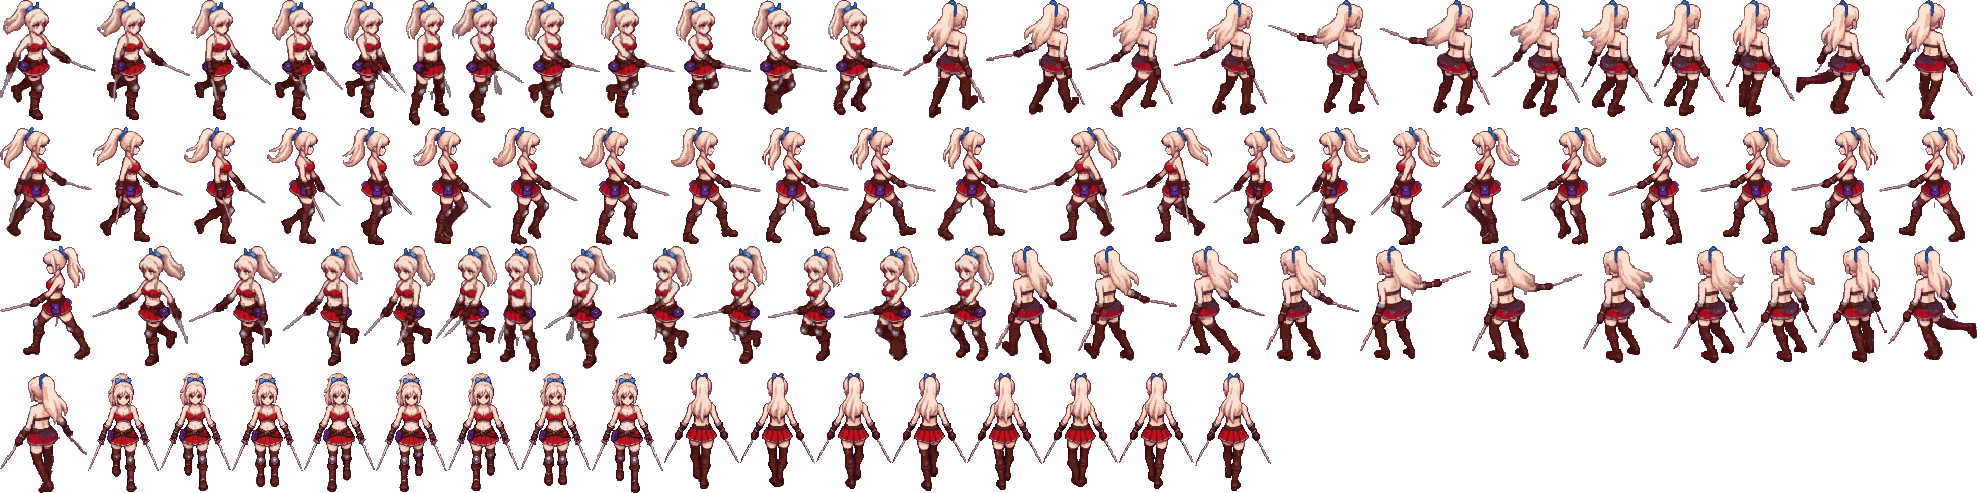
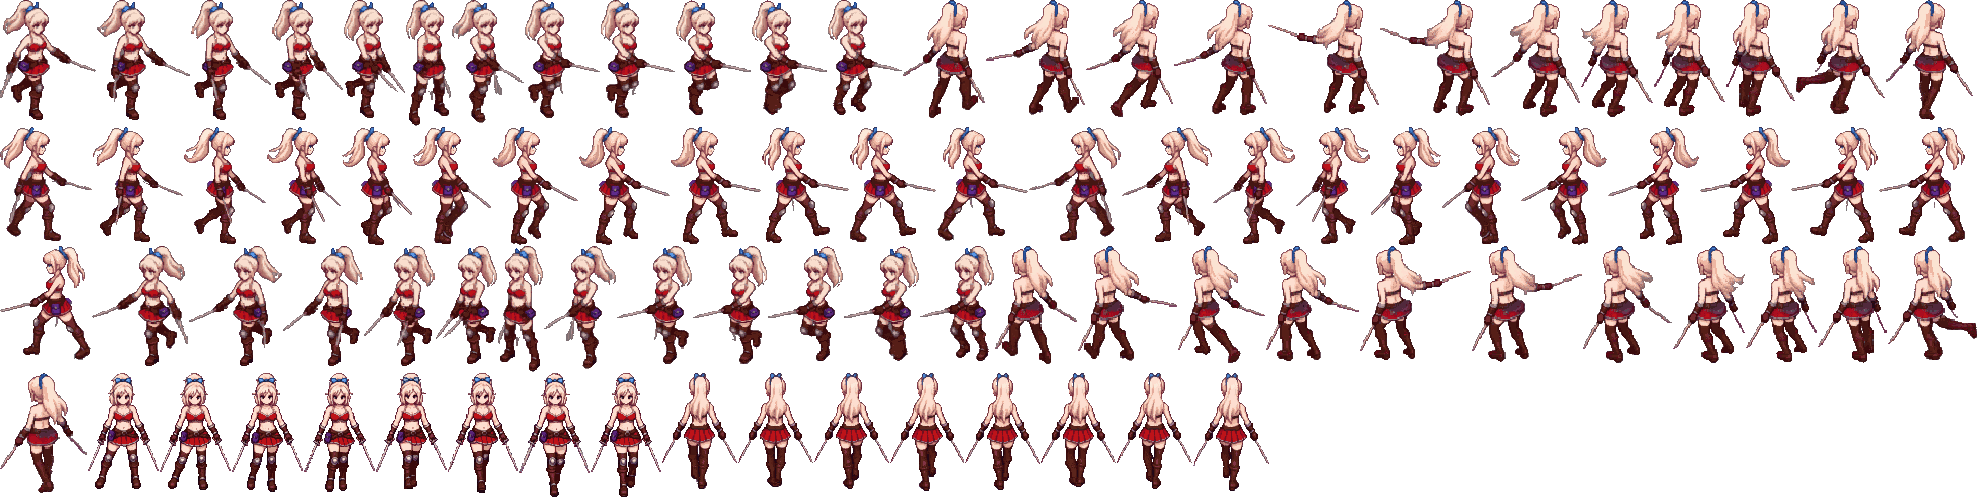
handoff: Linette front walk from PixelLab text animation (8 gen)
Claude-Session: https://claude.ai/code/session_016rTuiBLHccbMGyHtTkdTn7

diff --git a/handoff/claude/linette_final_v1/polish.py b/handoff/claude/linette_final_v1/polish.py
@@ -36,7 +36,7 @@ for m,dd in man['motions'].items():
         log[f'{m}_{d}']={'scale':round(sc,3),'offset':[round(128-c0*sc),round(189-b0*sc)]}
 # front/back runs (hero skeleton, foreshortened legs): snap every frame's lowest pixel to the ground line, then a 2px run bob,
 # so she neither floats nor sinks (owner 10-20 "다리가 왜이래")
-for m,d in (('run','south'),('run','north')):
+for m,d in (('run','south'),('run','north'),('walk','south')):
     fs=sorted(glob.glob(f'{OUT}/{m}/{d}/*.png'));n=len(fs)
     for i,f in enumerate(fs):
         im=Image.open(f);b=im.getbbox();dy=190-b[3]-round(2*abs(math.sin(2*math.pi*i/n)))
